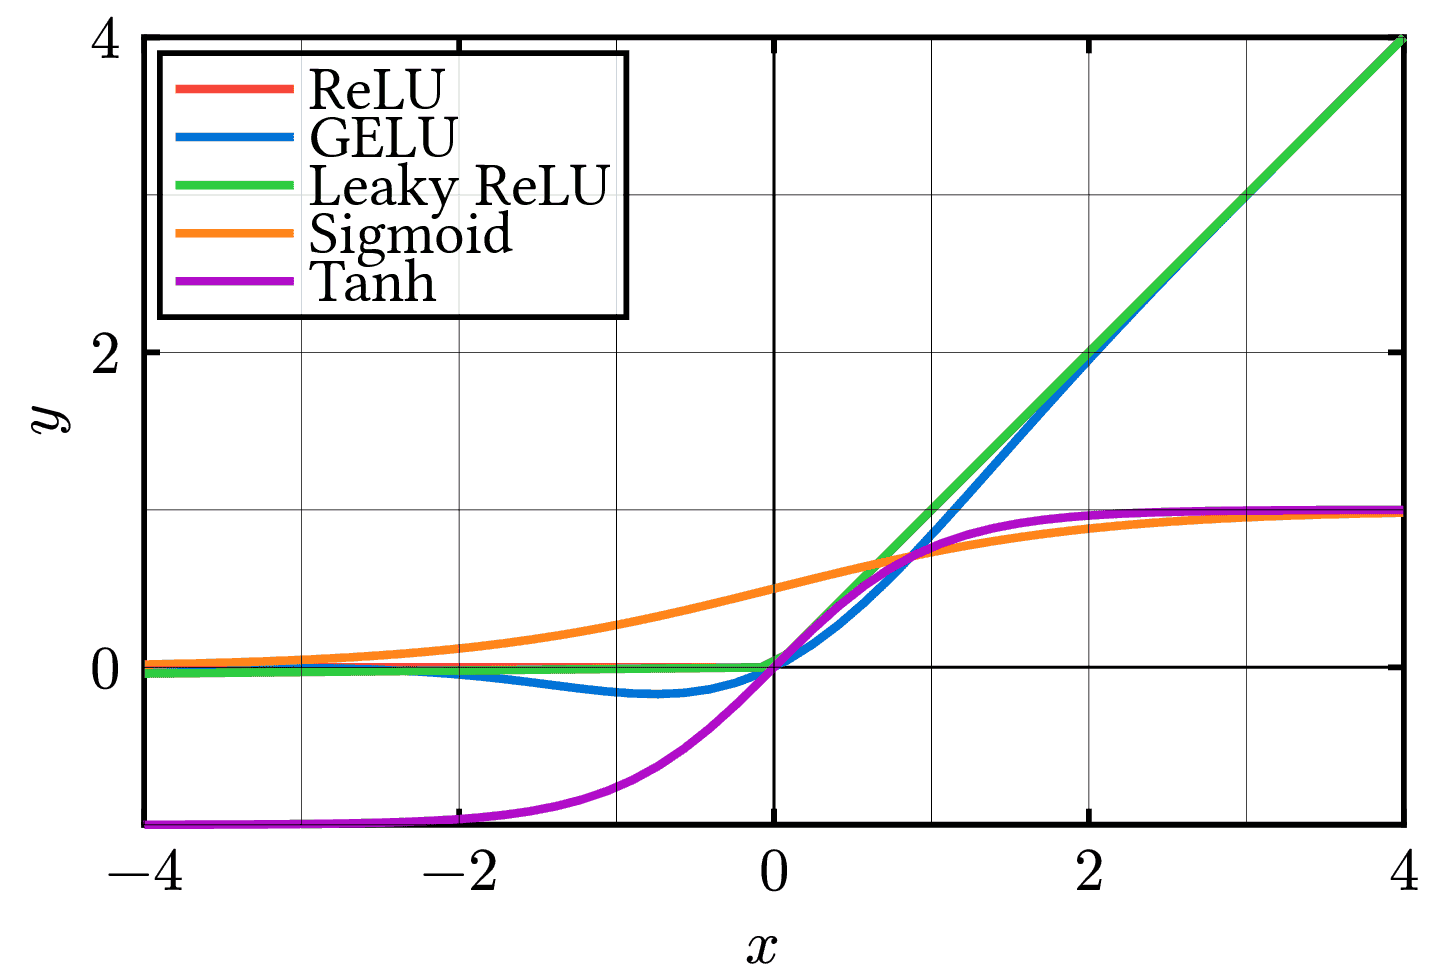
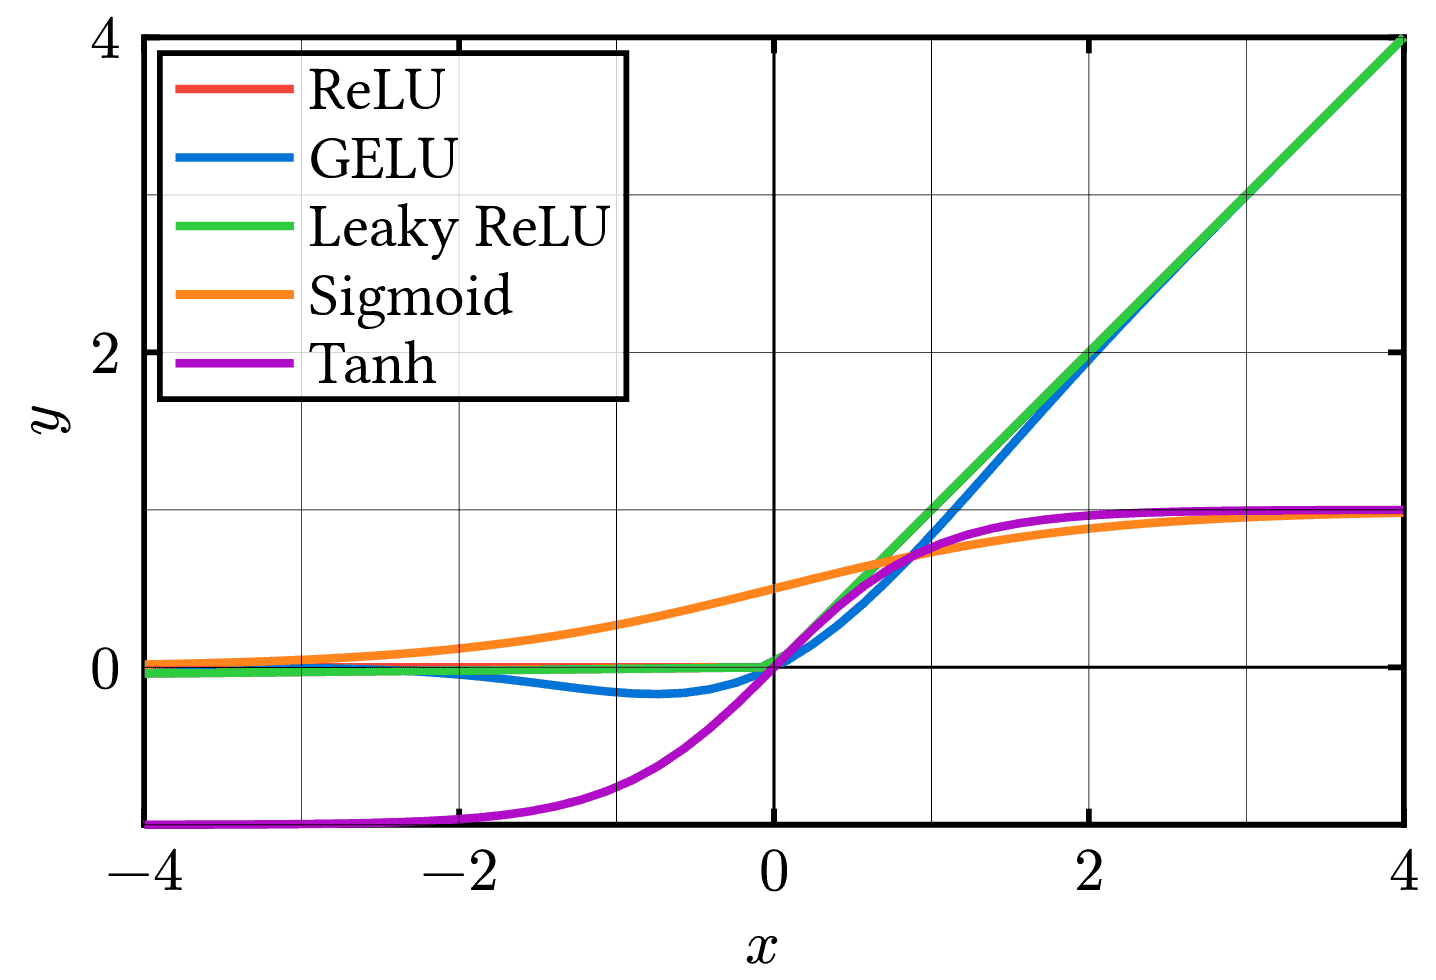
translate thermo-ensemble-trafos.(tex->typ) using cetz:0.2.2
bump site deps and pre-commit hooks, migrate eslint to v9 flat config

Changed region(s): [[0.0919, 0.1224, 0.429, 0.4286], [0.429, 0.3367, 0.4596, 0.398]]

diff --git a/site/eslint.config.js b/site/eslint.config.js
@@ -1,0 +1,32 @@
+import svelte from 'eslint-plugin-svelte'
+import tslint from 'typescript-eslint'
+
+/** @type { import("eslint").Linter.FlatConfig[] } */
+export default [
+  ...tslint.configs.recommended,
+  ...svelte.configs[`flat/recommended`],
+  {
+    rules: {
+      '@typescript-eslint/no-unused-vars': [
+        `error`,
+        { argsIgnorePattern: `^_`, varsIgnorePattern: `^_` },
+      ],
+      '@typescript-eslint/quotes': [`error`, `backtick`, { avoidEscape: true }],
+      'svelte/no-at-html-tags': `off`,
+    },
+  },
+  {
+    languageOptions: { ecmaVersion: 2020 },
+  },
+  {
+    files: [`**/*.svelte`],
+    languageOptions: {
+      parserOptions: {
+        parser: tslint.parser,
+      },
+    },
+  },
+  {
+    ignores: [`build/`],
+  },
+]